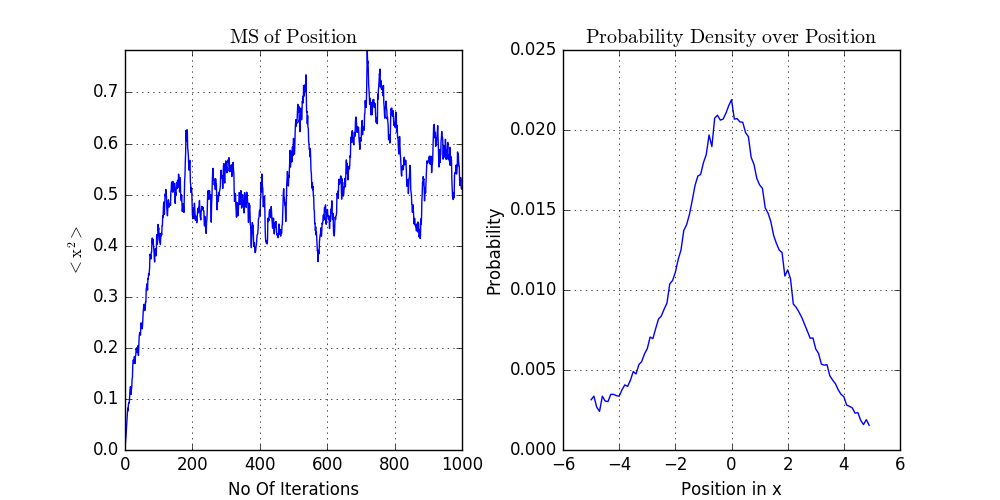
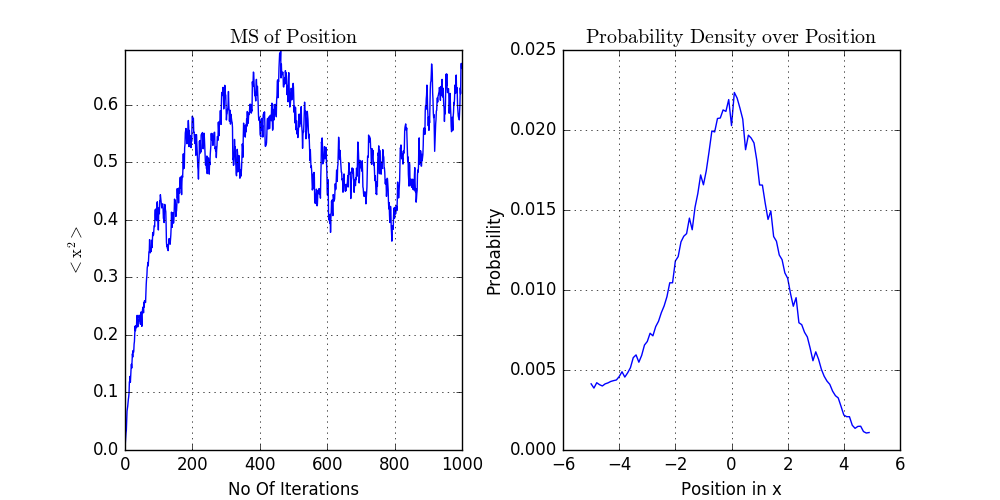
Corrections and Updates

diff --git a/PIMC.py b/PIMC.py
@@ -6,11 +6,14 @@ import csv
 
 class Path(object):
 
-    def __init__(self,M,T,a,char,thermalize,lam,n_steps,x_max,n_bins): #Initialize
+    def __init__(self,M,T,a,mu,f,char,thermalize,lam,n_steps,x_max,n_bins): #Initialize
         self.M = M
         self.T = T
         self.dT = T/M
+        self.a = a
         self.delta = 2.0*np.sqrt(a)
+        self.mu = mu
+        self.f = f
         self.thermalize = thermalize
         self.lam = lam
         self.n_steps = n_steps
@@ -31,14 +34,18 @@ class Path(object):
             self.X = np.zeros(self.M, dtype=np.int).tolist() #Cold Start
 
     def V(self,x):
-        return 0.5*(x**2) + self.lam*((x**2-1.75**2)**2) #Potential Energy(PE) with m = 1, f = 1
-                                            #lam = 0 -> Harmonic Oscillator; lam > 0 -> Anharmonic Oscillator
+        return 0.5*(self.mu**2)*(x**2) + self.lam*((x**2-self.f**2)**2) #Potential Energy(PE)
+                                                                        #lam = 0 -> Harmonic Oscillator
+                                                                        #lam > 0 -> Anharmonic Oscillator
+
+    def DV(self,x):
+        return (self.mu**2)*x + 4*self.lam*x*(x**2-self.f**2)
 
     def K(self,x):
         return 0.5*(x**2) #Kinetic Energy(KE) with m = 1
 
     def E(self,x):
-        return self.V(x) + self.K(x) # Energy from Virial Theorem - V+(0.5*x*dV/dx) which gives Total Energy = PE + KE
+        return self.V(x) + (0.5*x*self.DV(x)) # Energy from Virial Theorem - V+(0.5*x*dV/dx)
 
 
 def mcstep(path): #One Markov Chain Monte Carlo Step - Metropolis Algorithm

diff --git a/main.py b/main.py
@@ -3,15 +3,17 @@ from PIMC import *
 #Initialize
 M = 100 #Number of time slices
 T = 10.0 #Imaginary time period
-a = 0.05 #Lattice Spacing
+a = 0.1 #Lattice Spacing
+mu = 1 #Oscillator Frequency?
+f = 1.75 #Arbitrary Constant? for Anharmonic Oscillator
 char = 'c' #Choose Hot = 'h' or Cold = 'c' Start
 thermalize = False #Set True to run Thermalization to pass burn-in phase
-lam = 0.0 #lam = 0 -> Harmonic Oscillator; lam > 0 -> Anharmonic Oscillator
+lam = 0.0 #Quartic Coupling Constant - lam = 0 -> Harmonic Oscillator; lam > 0 -> Anharmonic Oscillator
 n_steps = 1000  #Number of Monte Carlo steps
 x_max = 5.0 #Max value corresponding to the last bin
 n_bins = 100 #Number of bins to draw the probability density histogram over
 
-path = Path(M,T,a,char,thermalize,lam,n_steps,x_max,n_bins)
+path = Path(M,T,a,mu,f,char,thermalize,lam,n_steps,x_max,n_bins)
 
 if __name__=='__main__':
     PIMC(path)
